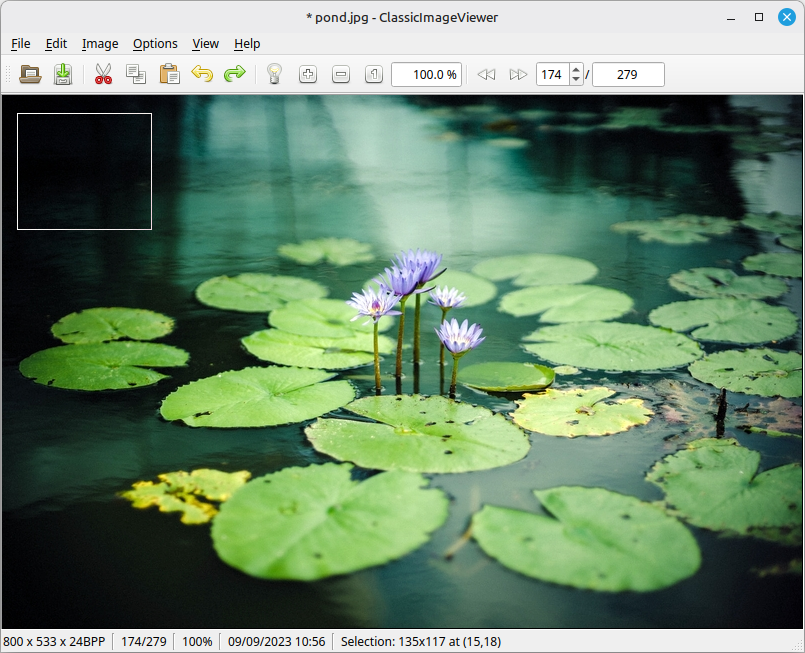
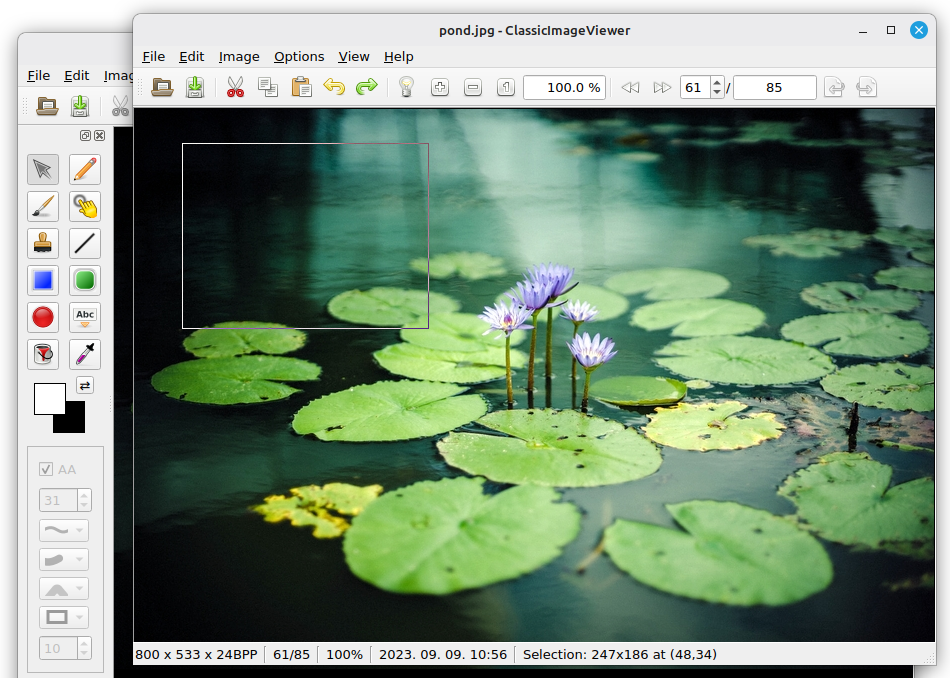
Update screenshot and description

diff --git a/index.html b/index.html
@@ -13,7 +13,7 @@
 		</div>
 
 		<div class="subtitle">
-			Simple image viewer for Linux with some editing features.
+			Simple and fast image viewer and editor for Linux, BSDs and MacOS.
 		</div>
 		<div class="screenshot">
 			<div>